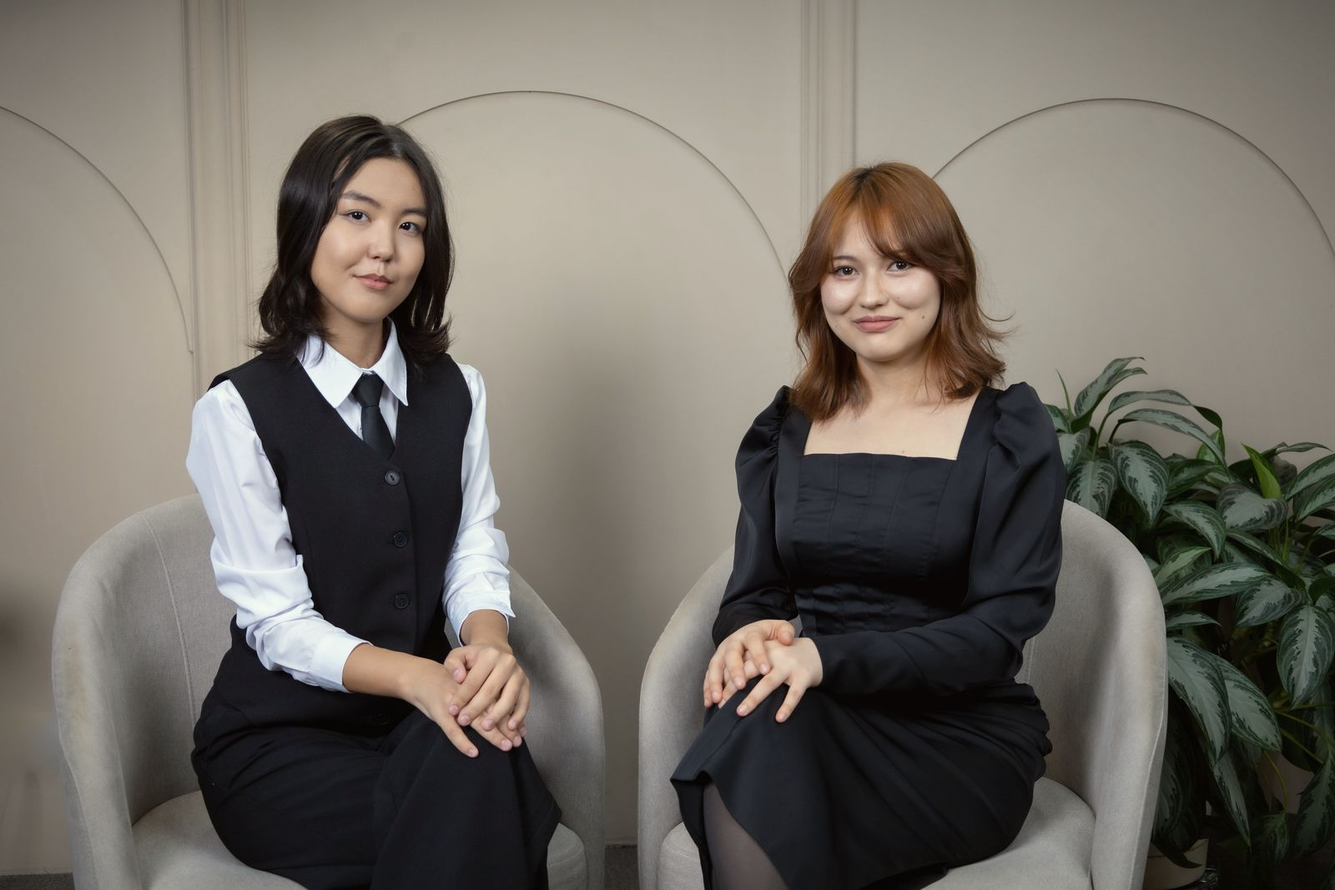
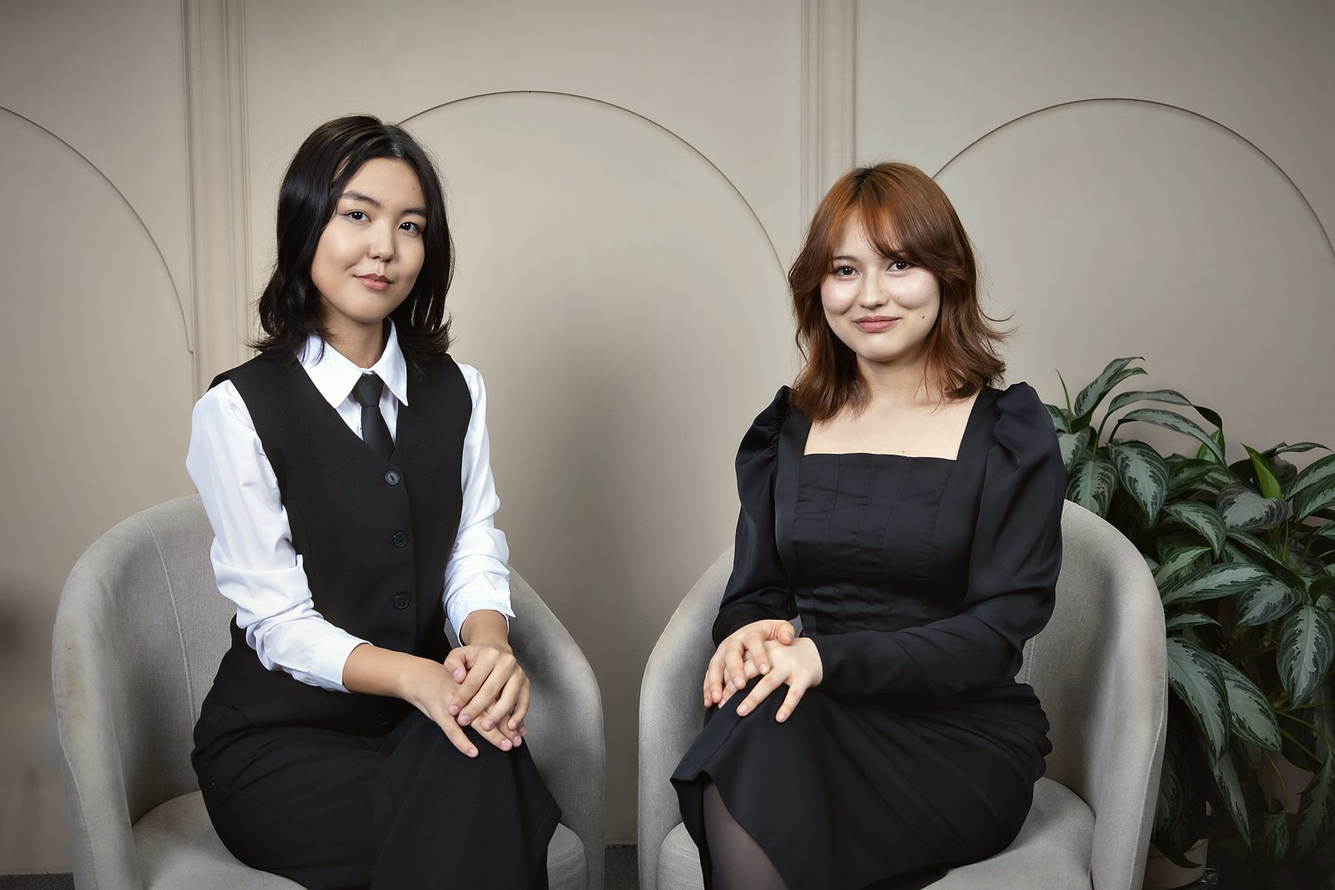
Команда фотолары: кино өңдеуі (фильмдік қисық, айқындық, алтын жарқыл, тұтас виньетка, ақ түс қабырғадан); мөр мен бес қолтаңба; фото-фильм экранға кіргенде ашылады

diff --git a/team.html b/team.html
@@ -103,15 +103,20 @@
           <path class="tf-kuld" d="M-138-40H138M-138 40H138M-40-138V138M40-138V138"/>
           <g class="tf-uyk"><path d="M0-150V-196M130-75 170-98M130 75 170 98M0 150V196M-130 75-170 98M-130-75-170-98"/></g></g></svg>
       </div>
-        <div class="tf-cap" aria-live="off"><p class="tf-k">AO17 командасы</p><p class="tf-t">Бір шаңырақ - бес адам</p><p class="tf-d">Екеуі - дизайн, үшеуі - бағдарлама мен мазмұн. Камера әрқайсысына кезекпен жақындайды.</p></div>
+        <div class="tf-cap" aria-live="off"><p class="tf-k">AO17 командасы</p><p class="tf-t">Бес адам, бір кадр</p><p class="tf-d">Камера әрқайсысына кезекпен жақындайды: солдан оңға қарай.</p></div>
       </div>
       <div class="tf-bar" hidden></div>
-      <script type="application/json" id="tf-data">[{"img": "assets/img/team/group-hd.jpg", "x": 50, "y": 50, "s": 1.0, "to": [50, 52, 1.06], "hold": 5200, "k": "AO17 командасы", "t": "Бір шаңырақ - бес адам", "d": "Екеуі - дизайн, үшеуі - бағдарлама мен мазмұн. Камера әрқайсысына кезекпен жақындайды.", "alt": "AO17 командасының бес мүшесі кітап сөрелерінің алдында, ортада глобус."}, {"img": "assets/img/team/group-hd.jpg", "x": 24.4, "y": 53.7, "s": 2.3, "hold": 3800, "who": "sagid", "k": "18 жас · Жоба жетекшісі, архитектура", "t": "Sagid Mustafa", "d": "Платформаның қаңқасын құрушы", "alt": "AO17 командасының бес мүшесі кітап сөрелерінің алдында, ортада глобус."}, {"img": "assets/img/team/group-hd.jpg", "x": 35.9, "y": 19.6, "s": 2.3, "hold": 3800, "who": "magzhan", "k": "17 жас · Frontend әзірлеуші", "t": "Magzhan Romanov", "d": "Түсіндірмені қозғалысқа айналдырушы", "alt": "AO17 командасының бес мүшесі кітап сөрелерінің алдында, ортада глобус."}, {"img": "assets/img/team/group-hd.jpg", "x": 52.6, "y": 36.4, "s": 2.3, "hold": 3800, "who": "gulzat", "k": "18 жас · Бас дизайнер", "t": "Tutkabayeva Gulzat", "d": "Алаштың көркем тілі", "alt": "AO17 командасының бес мүшесі кітап сөрелерінің алдында, ортада глобус."}, {"img": "assets/img/team/group-hd.jpg", "x": 67.0, "y": 20.1, "s": 2.3, "hold": 3800, "who": "dastan", "k": "17 жас · Мазмұн және сапа", "t": "Toktybay Dastan", "d": "Мазмұн мен сапаның күзетшісі", "alt": "AO17 командасының бес мүшесі кітап сөрелерінің алдында, ортада глобус."}, {"img": "assets/img/team/group-hd.jpg", "x": 78.0, "y": 55.8, "s": 2.3, "hold": 3800, "who": "merey", "k": "17 жас · Дизайнер", "t": "Kopenova Merey", "d": "Оқу беттерінің сәулетшісі", "alt": "AO17 командасының бес мүшесі кітап сөрелерінің алдында, ортада глобус."}, {"img": "assets/img/team/work.jpg", "x": 52, "y": 48, "s": 1.18, "to": [48, 52, 1.0], "hold": 5200, "k": "Жұмыс үстінде", "t": "Бір экранға бес көз", "d": "Дизайн, код және мазмұн бір жобаға тоғысты.", "alt": "Команда ноутбук экранына қарап, бірге жұмыс істеп отыр."}, {"img": "assets/img/team/duo.jpg", "x": 46, "y": 46, "s": 1.0, "to": [54, 44, 1.12], "hold": 5200, "k": "Дизайн", "t": "Kopenova Merey мен Tutkabayeva Gulzat", "d": "Алаш стилі мен оқу беттерінің интерфейсі осы екеуінің қолынан шықты.", "alt": "Дизайнерлер Kopenova Merey мен Tutkabayeva Gulzat орындықта отыр."}, {"img": "assets/img/team/group-hd.jpg", "x": 50, "y": 50, "s": 1.12, "to": [50, 50, 1.0], "hold": 6000, "k": "AO17", "t": "Шаңырақты бір уық көтермейді", "d": "Әрқайсысының ісі - төменде. Бетті ашып, жақынырақ танысыңыз.", "alt": "AO17 командасының бес мүшесі кітап сөрелерінің алдында, ортада глобус."}]</script>
+      <script type="application/json" id="tf-data">[{"img": "assets/img/team/group-hd.jpg", "x": 50, "y": 50, "s": 1.0, "to": [50, 52, 1.06], "hold": 5200, "k": "AO17 командасы", "t": "Бес адам, бір кадр", "d": "Камера әрқайсысына кезекпен жақындайды: солдан оңға қарай.", "alt": "AO17 командасының бес мүшесі кітап сөрелерінің алдында, ортада глобус."}, {"img": "assets/img/team/group-hd.jpg", "x": 24.4, "y": 53.7, "s": 2.3, "hold": 3800, "who": "sagid", "k": "18 жас · Жоба жетекшісі, архитектура", "t": "Sagid Mustafa", "d": "Платформаның қаңқасын құрушы", "alt": "AO17 командасының бес мүшесі кітап сөрелерінің алдында, ортада глобус."}, {"img": "assets/img/team/group-hd.jpg", "x": 35.9, "y": 19.6, "s": 2.3, "hold": 3800, "who": "magzhan", "k": "17 жас · Frontend әзірлеуші", "t": "Magzhan Romanov", "d": "Түсіндірмені қозғалысқа айналдырушы", "alt": "AO17 командасының бес мүшесі кітап сөрелерінің алдында, ортада глобус."}, {"img": "assets/img/team/group-hd.jpg", "x": 52.6, "y": 36.4, "s": 2.3, "hold": 3800, "who": "gulzat", "k": "18 жас · Бас дизайнер", "t": "Tutkabayeva Gulzat", "d": "Алаштың көркем тілі", "alt": "AO17 командасының бес мүшесі кітап сөрелерінің алдында, ортада глобус."}, {"img": "assets/img/team/group-hd.jpg", "x": 67.0, "y": 20.1, "s": 2.3, "hold": 3800, "who": "dastan", "k": "17 жас · Мазмұн және сапа", "t": "Toktybay Dastan", "d": "Мазмұн мен сапаның күзетшісі", "alt": "AO17 командасының бес мүшесі кітап сөрелерінің алдында, ортада глобус."}, {"img": "assets/img/team/group-hd.jpg", "x": 78.0, "y": 55.8, "s": 2.3, "hold": 3800, "who": "merey", "k": "17 жас · Дизайнер", "t": "Kopenova Merey", "d": "Оқу беттерінің сәулетшісі", "alt": "AO17 командасының бес мүшесі кітап сөрелерінің алдында, ортада глобус."}, {"img": "assets/img/team/work.jpg", "x": 52, "y": 48, "s": 1.18, "to": [48, 52, 1.0], "hold": 5200, "k": "Жұмыс үстінде", "t": "Бір экранға бес көз", "d": "Дизайн, код және мазмұн бір жобаға тоғысты.", "alt": "Команда ноутбук экранына қарап, бірге жұмыс істеп отыр."}, {"img": "assets/img/team/duo.jpg", "x": 46, "y": 46, "s": 1.0, "to": [54, 44, 1.12], "hold": 5200, "k": "Дизайн", "t": "Kopenova Merey мен Tutkabayeva Gulzat", "d": "Алаш стилі мен оқу беттерінің интерфейсі осы екеуінің қолынан шықты.", "alt": "Дизайнерлер Kopenova Merey мен Tutkabayeva Gulzat орындықта отыр."}, {"img": "assets/img/team/group-hd.jpg", "x": 50, "y": 50, "s": 1.12, "to": [50, 50, 1.0], "hold": 6000, "k": "AO17", "t": "Шаңырақты бір уық көтермейді", "d": "Әрқайсысының ісі - төменде. Бетті ашып, жақынырақ танысыңыз.", "alt": "AO17 командасының бес мүшесі кітап сөрелерінің алдында, ортада глобус."}]</script>
     </section>
 
-    <section class="tm-sec tm-note" aria-labelledby="tn-h">
-      <h2 id="tn-h">Авторлық құқық</h2>
-      <p>AO17 платформасының бағдарламасы, дизайны және авторлық оқу материалдары бес автордың ортақ еңбегі: Tutkabayeva Gulzat, Toktybay Dastan, Sagid Mustafa, Magzhan Romanov, Kopenova Merey. Толық шарттар: <a href="copyright.html">Авторлық құқық және лицензиялар</a>. Harvard CS50 материалдарының қазақша аудармалары өз лицензиясымен (CC BY-NC-SA 4.0) таратылады.</p>
+    <section class="tm-sec tm-seal" aria-labelledby="tn-h" data-reveal>
+      <img class="tm-seal-img" src="assets/img/seal.svg" alt="" width="132" height="132">
+      <div class="tm-seal-tx">
+        <p class="st-intertitle">Мөр басылды</p>
+        <h2 id="tn-h">Авторлық құқық</h2>
+        <p>AO17 платформасының бағдарламасы, дизайны және авторлық оқу материалдары бес автордың ортақ еңбегі. Толық шарттар: <a href="copyright.html">Авторлық құқық және лицензиялар</a>. Harvard CS50 материалдарының қазақша аудармалары өз лицензиясымен (CC BY-NC-SA 4.0) таратылады.</p>
+        <ul class="tm-signs" aria-label="Авторлар"><li style="--i:0"><a href="team/gulzat.html">Tutkabayeva Gulzat</a><span>Бас дизайнер</span></li><li style="--i:1"><a href="team/dastan.html">Toktybay Dastan</a><span>Мазмұн және сапа</span></li><li style="--i:2"><a href="team/sagid.html">Sagid Mustafa</a><span>Жоба жетекшісі, архитектура</span></li><li style="--i:3"><a href="team/magzhan.html">Magzhan Romanov</a><span>Frontend әзірлеуші</span></li><li style="--i:4"><a href="team/merey.html">Kopenova Merey</a><span>Дизайнер</span></li></ul>
+      </div>
     </section>
   </main>
 

diff --git a/assets/css/team.css b/assets/css/team.css
@@ -353,3 +353,21 @@ html:not(.st-js) .shx-dust { display: none; }
 /* басты беттегі есімдер - сілтеме */
 .at-names a { display: flex; align-items: baseline; gap: 12px; width: 100%; color: inherit; text-decoration: none; }
 .at-names a:hover b, .at-names a:focus-visible b { color: var(--acc); }
+
+/* ---------- соңғы кадр: мөр мен бес қолтаңба ---------- */
+.tm-seal { display: grid; grid-template-columns: 132px minmax(0, 1fr); gap: clamp(22px, 4vw, 48px); align-items: start; margin-top: 64px; padding-top: 48px; padding-bottom: 8px;
+  border-top: 1px solid rgb(217 180 104 / .22); }
+.tm-seal-img { width: 132px; height: 132px; filter: drop-shadow(0 18px 30px rgb(0 0 0 / .55)); }
+.tm-seal-tx > p:not(.st-intertitle) { max-width: 70ch; color: var(--cream2); line-height: 1.75; }
+.tm-signs { list-style: none; margin: 26px 0 0; padding: 0; display: grid; grid-template-columns: repeat(auto-fill, minmax(min(100%, 190px), 1fr)); gap: 18px 26px; }
+.tm-signs li { display: grid; gap: 4px; padding-top: 12px; border-top: 1px solid rgb(217 180 104 / .35); }
+.tm-signs a { font: italic 400 22px/1.2 var(--display); color: #fff !important; text-decoration: none; }
+.tm-signs a:hover { color: var(--gold) !important; }
+.tm-signs span { font-size: 13px; color: var(--cream2); }
+.st-js .tm-seal:not(.is-in) .tm-seal-img { opacity: 0; transform: scale(1.6) rotate(-30deg); }
+.st-js .tm-seal.is-in .tm-seal-img { animation: tm-stamp .9s cubic-bezier(.2, 1.6, .4, 1) .1s both; }
+@keyframes tm-stamp { 0% { opacity: 0; transform: scale(1.7) rotate(-30deg); } 60% { opacity: 1; transform: scale(.94) rotate(4deg); } 100% { opacity: 1; transform: none; } }
+.st-js .tm-seal:not(.is-in) .tm-signs li { opacity: 0; }
+.st-js .tm-seal.is-in .tm-signs li { animation: tm-sign .9s cubic-bezier(.2, .7, .2, 1) calc(.6s + var(--i) * .14s) both; }
+@keyframes tm-sign { from { opacity: 0; clip-path: inset(0 100% 0 0); } to { opacity: 1; clip-path: inset(0 0 0 0); } }
+@media (max-width: 560px) { .tm-seal { grid-template-columns: minmax(0, 1fr); } .tm-seal-img { width: 96px; height: 96px; } }

diff --git a/assets/js/team.js b/assets/js/team.js
@@ -191,9 +191,12 @@
 
   show(0, false);
   if (!motion()) return;   // қозғалыс азайтылған: тек қолмен
-  film.classList.add("is-intro");
-  setTimeout(() => film.classList.remove("is-intro"), 3800);   // ашылу бір рет: кейінгі кадр ауысуында шеңбер қайталанбайды
-  const start = () => { if (started) return; started = true; setTimeout(() => { if (!playing && k === 0) play(); }, 2600); };
+  // фильм экранға кірген сәтте: шаңырақ сызылып, кадр ашылады (бір рет), сосын ойнай бастайды
+  const start = () => {
+    if (started) return; started = true;
+    film.classList.add("is-intro"); setTimeout(() => film.classList.remove("is-intro"), 3800);
+    setTimeout(() => { if (!playing && k === 0) play(); }, 2600);
+  };
   if ("IntersectionObserver" in window) {
     new IntersectionObserver((es) => es.forEach((e) => { if (e.isIntersecting) start(); else if (playing) pause(); }), { threshold: 0.45 }).observe(frame);
   } else start();

diff --git a/tools/team_photos.py b/tools/team_photos.py
@@ -28,29 +28,46 @@ def lum(a):
     return a[..., 0] * .2126 + a[..., 1] * .7152 + a[..., 2] * .0722
 
 
-def grade(im, vignette=.22):
+def grade(im, vignette=.22, cy=.42):
+    """Кино өңдеуі. cy - назар нүктесінің биіктігі (виньетка орталығы; портретте бет жоғарырақ)."""
+    from PIL import ImageFilter
     a = np.asarray(im.convert("RGB"), dtype=np.float32) / 255
     # 1) ақ түс: ең жарқын 25% (фон, көйлек) - ортақ жылы кілегейге
-    L = lum(a)
-    hi = a[L >= np.quantile(L, .75)].mean(axis=0)
+    top = a[: max(8, a.shape[0] // 4)]   # тек жоғарғы ширек: қабырға/фон (ақ көйлек ақ түсті «алдамасын»)
+    Lt = lum(top)
+    hi = top[Lt >= np.quantile(Lt, .6)].mean(axis=0)
     gain = (BG_TARGET / hi) / (BG_TARGET / hi).mean()
     a = np.clip(a * gain, 0, 1)
     # 2) жарықтық: орташа жарықтық TARGET_L-ге (гамма)
     m = float(lum(a).mean())
     a = np.clip(a, 1e-4, 1) ** (np.log(TARGET_L) / np.log(max(1e-3, min(.99, m))))
-    # 3) жұмсақ контраст (орта тондар)
-    a = np.clip(.5 + (a - .5) * 1.06, 0, 1)
-    # 4) қанықтықты басу және реңдік тонинг (көлеңке - сия, жарқын - кілегей-алтын)
+    # 3) фильмдік қисық: көлеңкенің түбі сәл көтеріледі (қара «сия» болады, көмір емес), орта тондарға контраст, жарқын жер жұмсақ иіледі
+    s_curve = .5 + .5 * np.tanh(2.1 * (a - .5)) / np.tanh(1.05)
+    a = a * .45 + s_curve * .55
+    a = .035 + a * (.985 - .035)
+    # 4) айқындық (жергілікті контраст) және нақтылық - үлкен және кіші радиусты unsharp mask
+    img = Image.fromarray((np.clip(a, 0, 1) * 255 + .5).astype(np.uint8))
+    img = img.filter(ImageFilter.UnsharpMask(radius=max(12, im.width // 40), percent=22, threshold=2))
+    img = img.filter(ImageFilter.UnsharpMask(radius=1.1, percent=55, threshold=2))
+    a = np.asarray(img, dtype=np.float32) / 255
+    # 5) қанықтықты басу және реңдік тонинг (көлеңке - сия, жарқын - кілегей-алтын)
     L = lum(a)[..., None]
-    a = L + (a - L) * .88
-    sh, hl = np.clip(1 - L * 2, 0, 1), np.clip(L * 2 - 1, 0, 1)
-    a = a * (1 - .18 * sh) + INK * .18 * sh
-    a = a * (1 - .10 * hl) + CREAM * .10 * hl
-    # 5) виньетка
+    a = L + (a - L) * .86
+    sh, hl = np.clip(1 - L * 2.2, 0, 1), np.clip(L * 2 - 1, 0, 1)
+    a = a * (1 - .24 * sh) + INK * .24 * sh
+    a = a * (1 - .12 * hl) + CREAM * .12 * hl
+    # 6) алтын жарқыл (bloom): тек ең жарқын жерлер жұмсақ шашырайды
+    L = lum(a)
+    glow = np.clip((L - .72) / .28, 0, 1)[..., None] * a
+    g = Image.fromarray((glow * 255).astype(np.uint8)).filter(ImageFilter.GaussianBlur(max(6, im.width // 60)))
+    g = np.asarray(g, dtype=np.float32) / 255 * np.array([1.0, .9, .7])
+    a = 1 - (1 - a) * (1 - g * .35)
+    # 7) виньетка: назар нүктесінен эллипс, жиегі сайттың қараңғы фонымен тұтасады
     h, w = a.shape[:2]
     y, x = np.ogrid[:h, :w]
-    r = np.sqrt(((x - w / 2) / (w / 2)) ** 2 + ((y - h / 2) / (h / 2)) ** 2) / np.sqrt(2)
-    a = a * (1 - vignette * np.clip((r - .45) / .55, 0, 1) ** 1.6)[..., None]
+    r = np.sqrt(((x - w / 2) / (w * .58)) ** 2 + ((y - h * cy) / (h * .62)) ** 2)
+    v = np.clip((r - .55) / .75, 0, 1) ** 1.5
+    a = a * (1 - vignette * v)[..., None] + INK * (vignette * .35 * v)[..., None]
     return Image.fromarray((np.clip(a, 0, 1) * 255 + .5).astype(np.uint8))
 
 
@@ -58,14 +75,14 @@ def portrait(src, dst):
     im = Image.open(src).convert("RGB")
     w, h = im.size
     im = im.crop((0, 0, w, min(h, int(w * 1.25)))).resize((640, 800), Image.LANCZOS)
-    grade(im, .18).save(dst, quality=84, optimize=True, progressive=True)
+    grade(im, .42, .3).save(dst, quality=86, optimize=True, progressive=True)
 
 
 def wide(src, dst, width):
     im = Image.open(src).convert("RGB")
     w, h = im.size
     im = im.resize((width, round(h * width / w)), Image.LANCZOS)
-    grade(im, .26).save(dst, quality=80, optimize=True, progressive=True)
+    grade(im, .40, .42).save(dst, quality=82, optimize=True, progressive=True)
 
 
 def main(srcdir):

diff --git a/tools/team_build.py b/tools/team_build.py
@@ -93,8 +93,8 @@ def shell(prefix, title, desc, main, scripts=""):
 # ---------- team.html ----------
 def film_shots(prefix):
     g = "assets/img/team/group-hd.jpg"
-    shots = [{"img": g, "x": 50, "y": 50, "s": 1.0, "to": [50, 52, 1.06], "hold": 5200, "k": TEAM["name"], "t": "Бір шаңырақ - бес адам",
-              "d": "Екеуі - дизайн, үшеуі - бағдарлама мен мазмұн. Камера әрқайсысына кезекпен жақындайды."}]
+    shots = [{"img": g, "x": 50, "y": 50, "s": 1.0, "to": [50, 52, 1.06], "hold": 5200, "k": TEAM["name"], "t": "Бес адам, бір кадр",
+              "d": "Камера әрқайсысына кезекпен жақындайды: солдан оңға қарай."}]
     for m in sorted(M, key=lambda m: m["face"][0]):   # кадрдағы орны бойынша - солдан оңға
         fx, fy = in_frame(g, *m["face"])
         shots.append({"img": g, "x": round(fx, 1), "y": round(fy + 9, 1), "s": 2.3, "hold": 3800, "who": m["slug"],
@@ -196,9 +196,14 @@ def team_page():
       <script type="application/json" id="tf-data">{json.dumps(shots, ensure_ascii=False)}</script>
     </section>
 
-    <section class="tm-sec tm-note" aria-labelledby="tn-h">
-      <h2 id="tn-h">Авторлық құқық</h2>
-      <p>AO17 платформасының бағдарламасы, дизайны және авторлық оқу материалдары бес автордың ортақ еңбегі: {E(", ".join(m["name"] for m in M))}. Толық шарттар: <a href="copyright.html">Авторлық құқық және лицензиялар</a>. Harvard CS50 материалдарының қазақша аудармалары өз лицензиясымен (CC BY-NC-SA 4.0) таратылады.</p>
+    <section class="tm-sec tm-seal" aria-labelledby="tn-h" data-reveal>
+      <img class="tm-seal-img" src="assets/img/seal.svg" alt="" width="132" height="132">
+      <div class="tm-seal-tx">
+        <p class="st-intertitle">Мөр басылды</p>
+        <h2 id="tn-h">Авторлық құқық</h2>
+        <p>AO17 платформасының бағдарламасы, дизайны және авторлық оқу материалдары бес автордың ортақ еңбегі. Толық шарттар: <a href="copyright.html">Авторлық құқық және лицензиялар</a>. Harvard CS50 материалдарының қазақша аудармалары өз лицензиясымен (CC BY-NC-SA 4.0) таратылады.</p>
+        <ul class="tm-signs" aria-label="Авторлар">{"".join(f'<li style="--i:{i}"><a href="team/{m['slug']}.html">{E(m['name'])}</a><span>{E(m['role'])}</span></li>' for i, m in enumerate(M))}</ul>
+      </div>
     </section>
   </main>"""
     return shell("", "Команда - AO17", "AO17 командасы: бес автор - екі дизайнер, үш бағдарлама мен мазмұн авторы. Скроллмен ашылатын фильм, әрқайсысының сайттағы ісі.", main)
